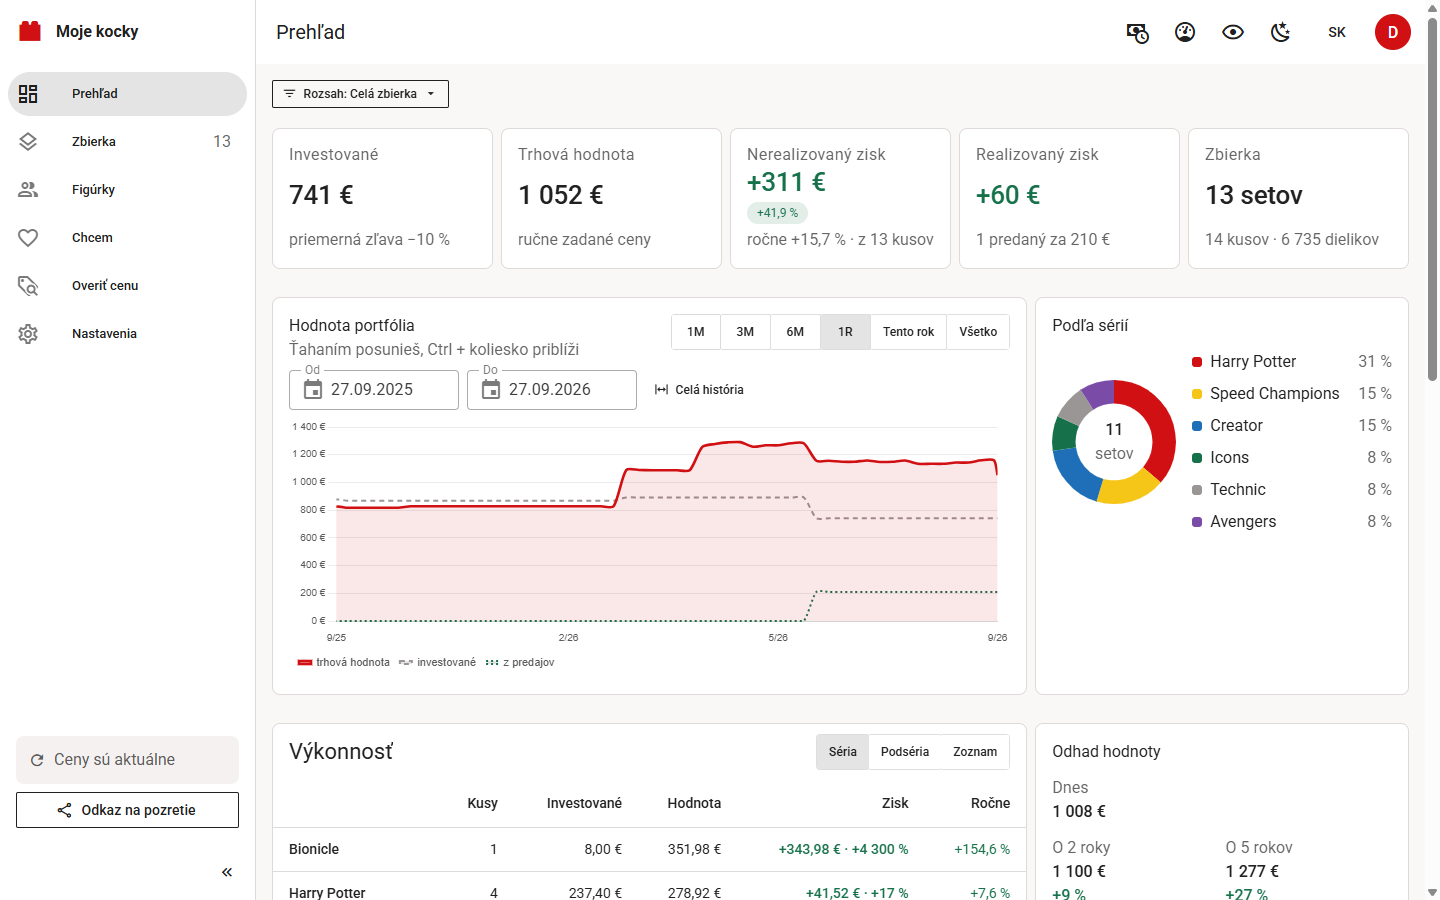
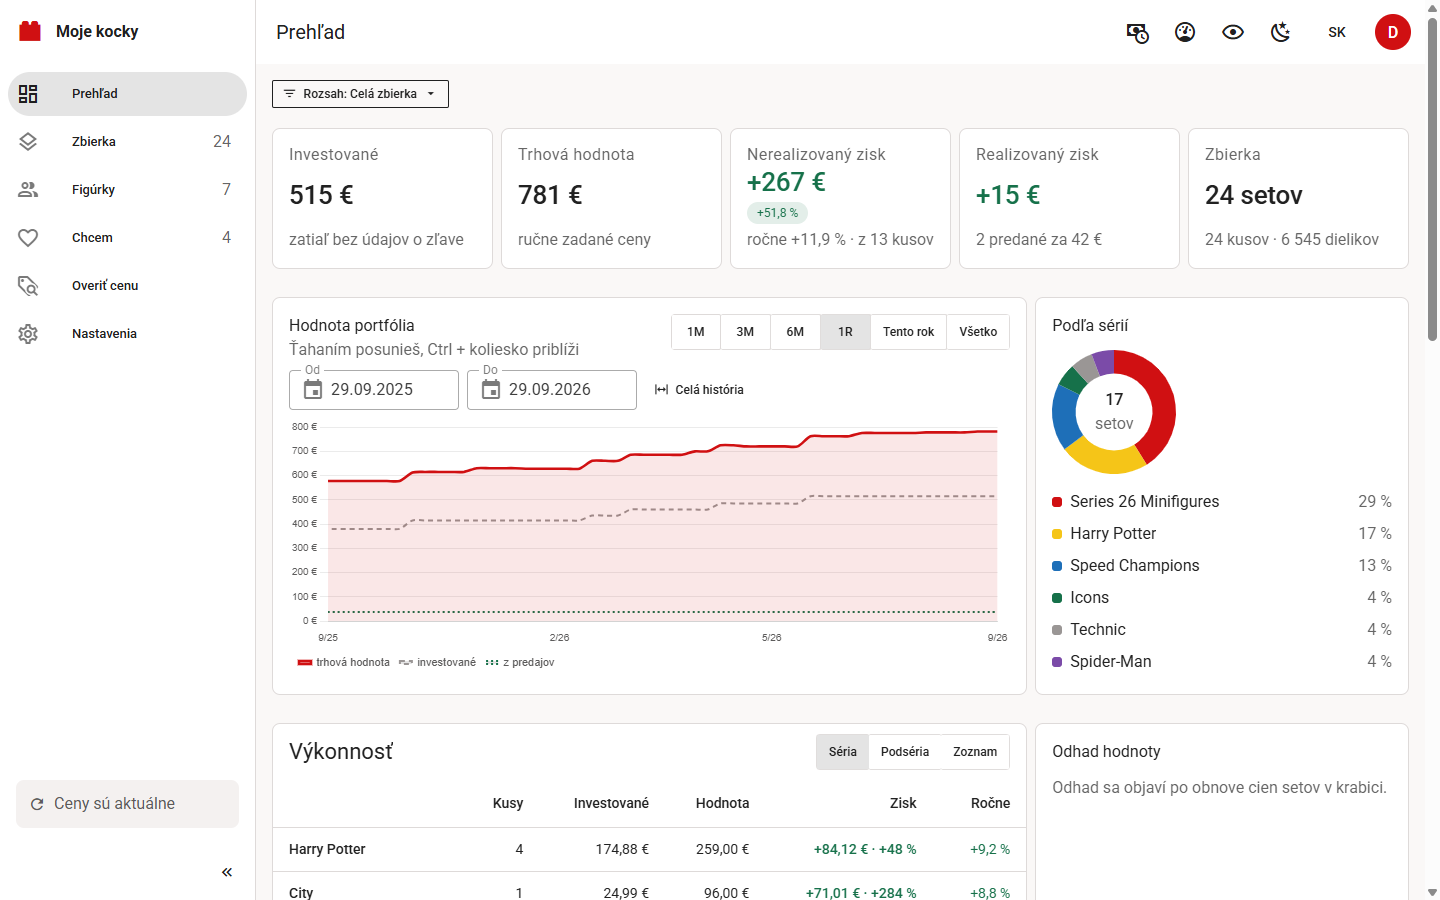
README: odkaz na inštalátor hneď na začiatku, snímky z desktopu
Vydanie dostane krátky návod na inštaláciu, varovanie SmartScreen
a čo robiť, keď program zablokuje antivírus.

diff --git a/README.md b/README.md
@@ -1,5 +1,15 @@
 # Moje kocky Desktop
 
+### [Stiahnuť inštalátor pre Windows](https://github.com/jakubmatisak/moje-kocky-desktop/releases/latest)
+
+Zadarmo, bez reklám a sledovania · Windows 10 a 11 (64-bit) · práva správcu netreba ·
+[stránka projektu](https://jakubmatisak.github.io/moje-kocky-website/) ·
+[webová verzia na vlastný server](https://github.com/jakubmatisak/moje-kocky)
+
+V časti **Releases** vpravo je vždy najnovší `MojeKocky-Setup-x.y.z.exe`
+(v zozname súborov pod **Assets**). Inštalátor nie je podpísaný, Windows preto raz
+ukáže „Windows chránil tento počítač“: **Ďalšie informácie → Spustiť aj tak**.
+
 Evidencia zbierky LEGO® setov ako **bežná inštalácia pre Windows**. Je to tá
 istá appka ako webová [Moje kocky](https://github.com/jakubmatisak/moje-kocky),
 len beží v okne na tvojom počítači: bez servera, bez Dockeru a **bez
@@ -8,7 +18,11 @@ v `%APPDATA%\MojeKocky`.
 
 ![Prehľad: hodnota portfólia, zisk a rozdelenie podľa sérií](docs/screenshots/prehlad.png)
 
-*Snímka je z webovej verzie, desktop vyzerá rovnako.*
+| Zbierka | Zberateľská séria |
+| --- | --- |
+| ![Zbierka: karty setov s kúpnou cenou, hodnotou a ziskom](docs/screenshots/zbierka.png) | ![Séria minifigúrok: ktoré máš a ktoré chýbajú](docs/screenshots/figurky.png) |
+
+*Snímky sú z ukážkovej zbierky s vymyslenými, ručne zadanými cenami.*
 
 
 ## Čo to vie
